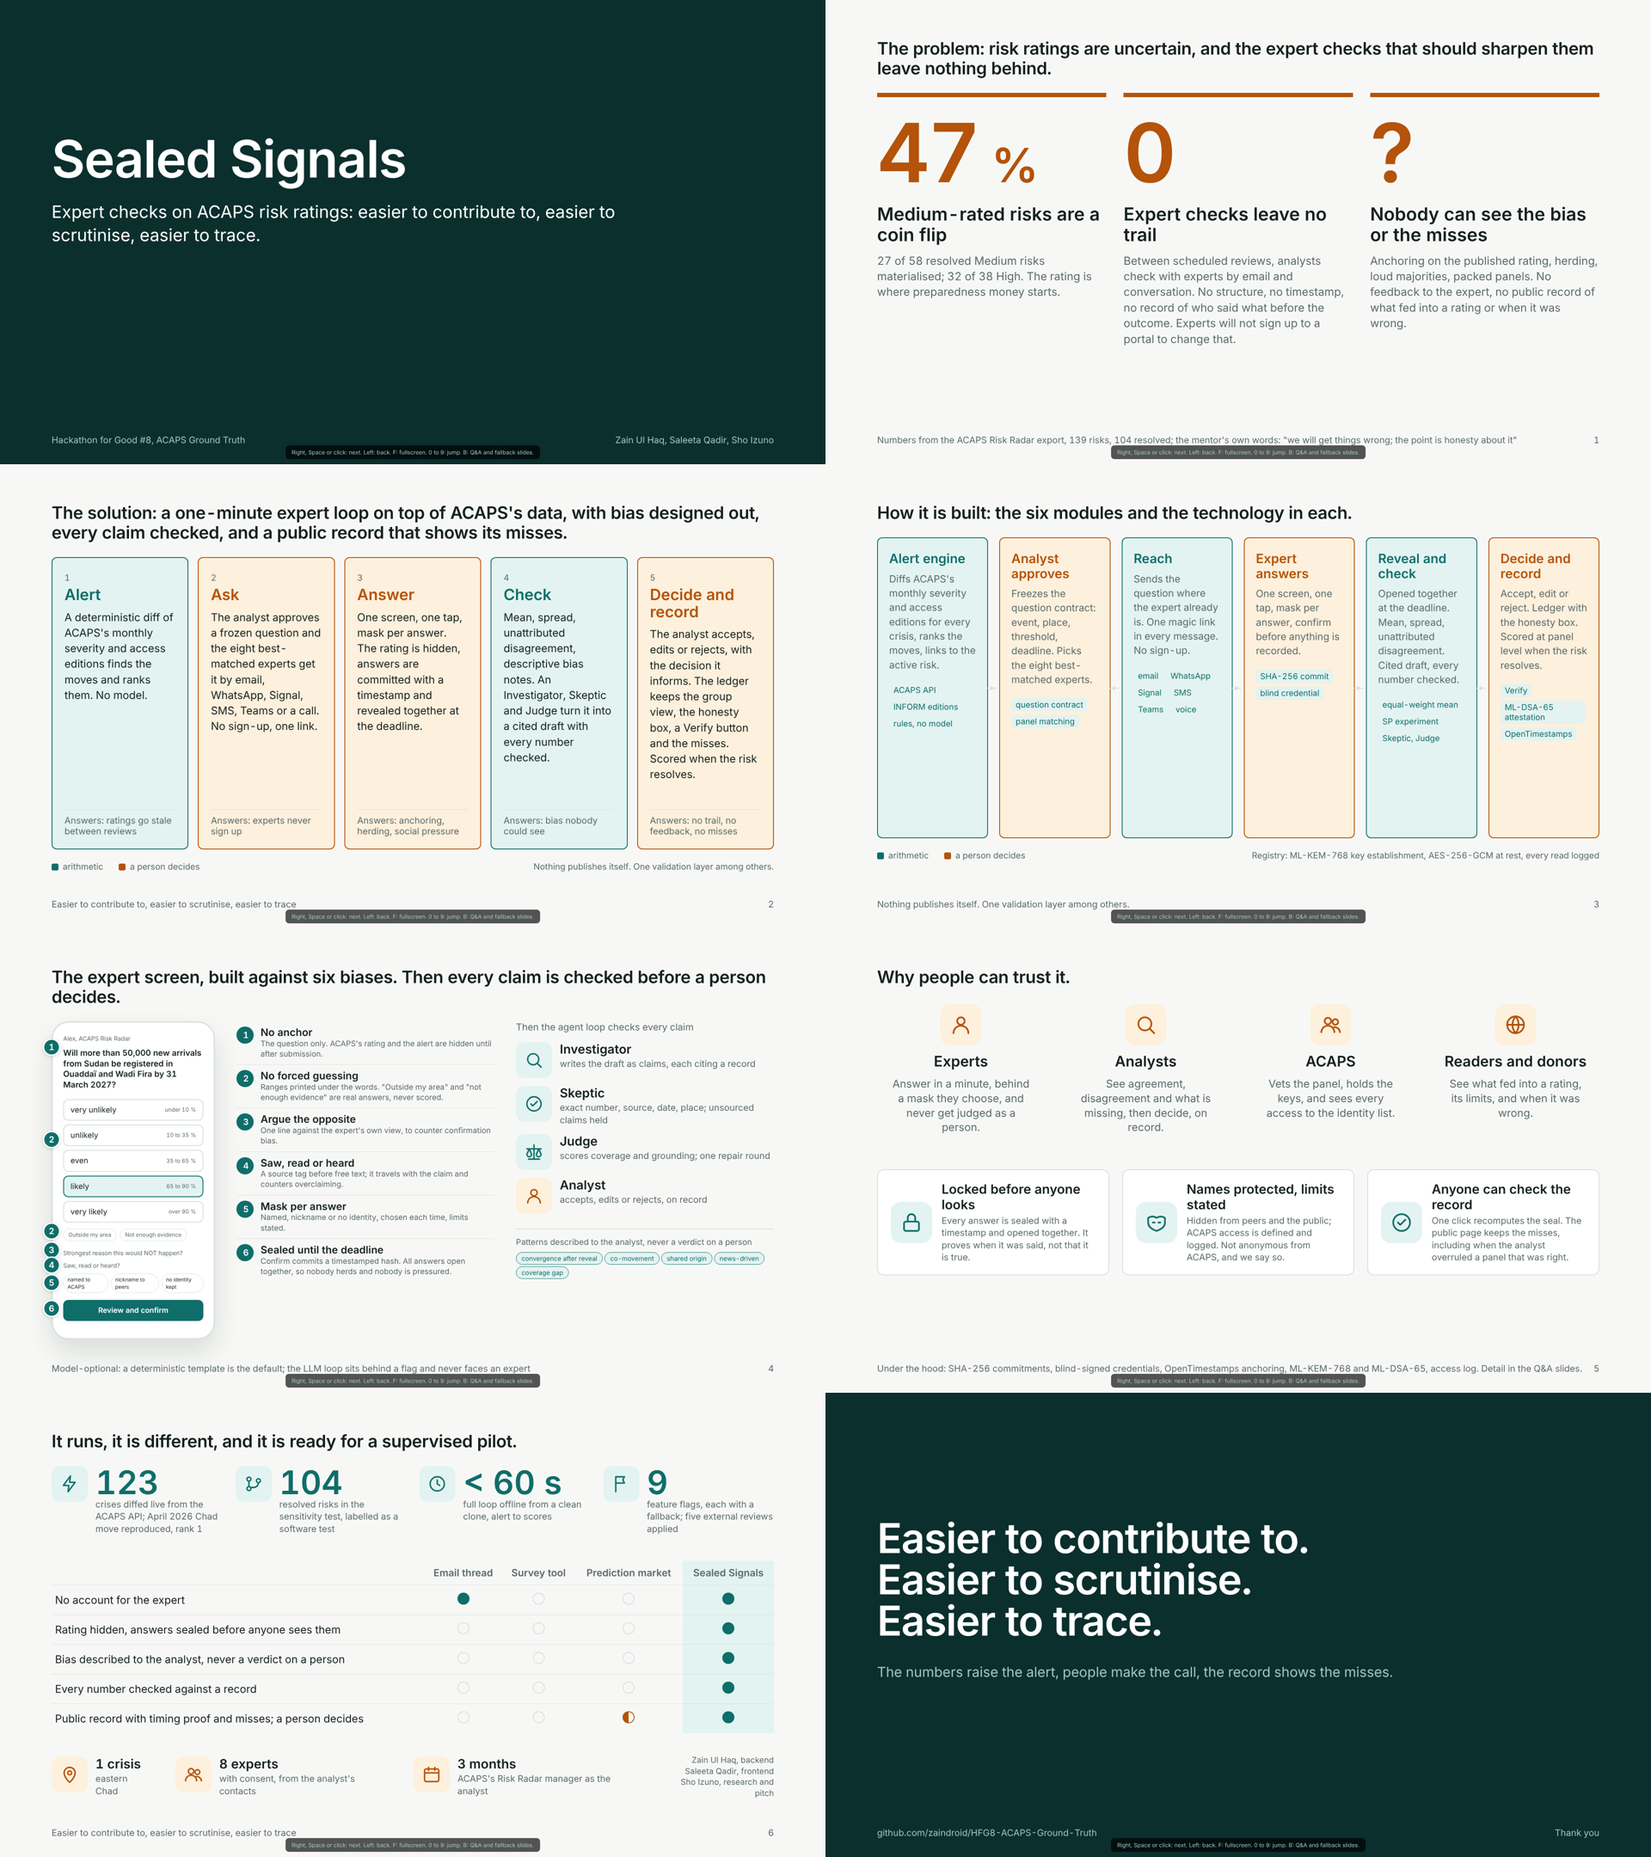
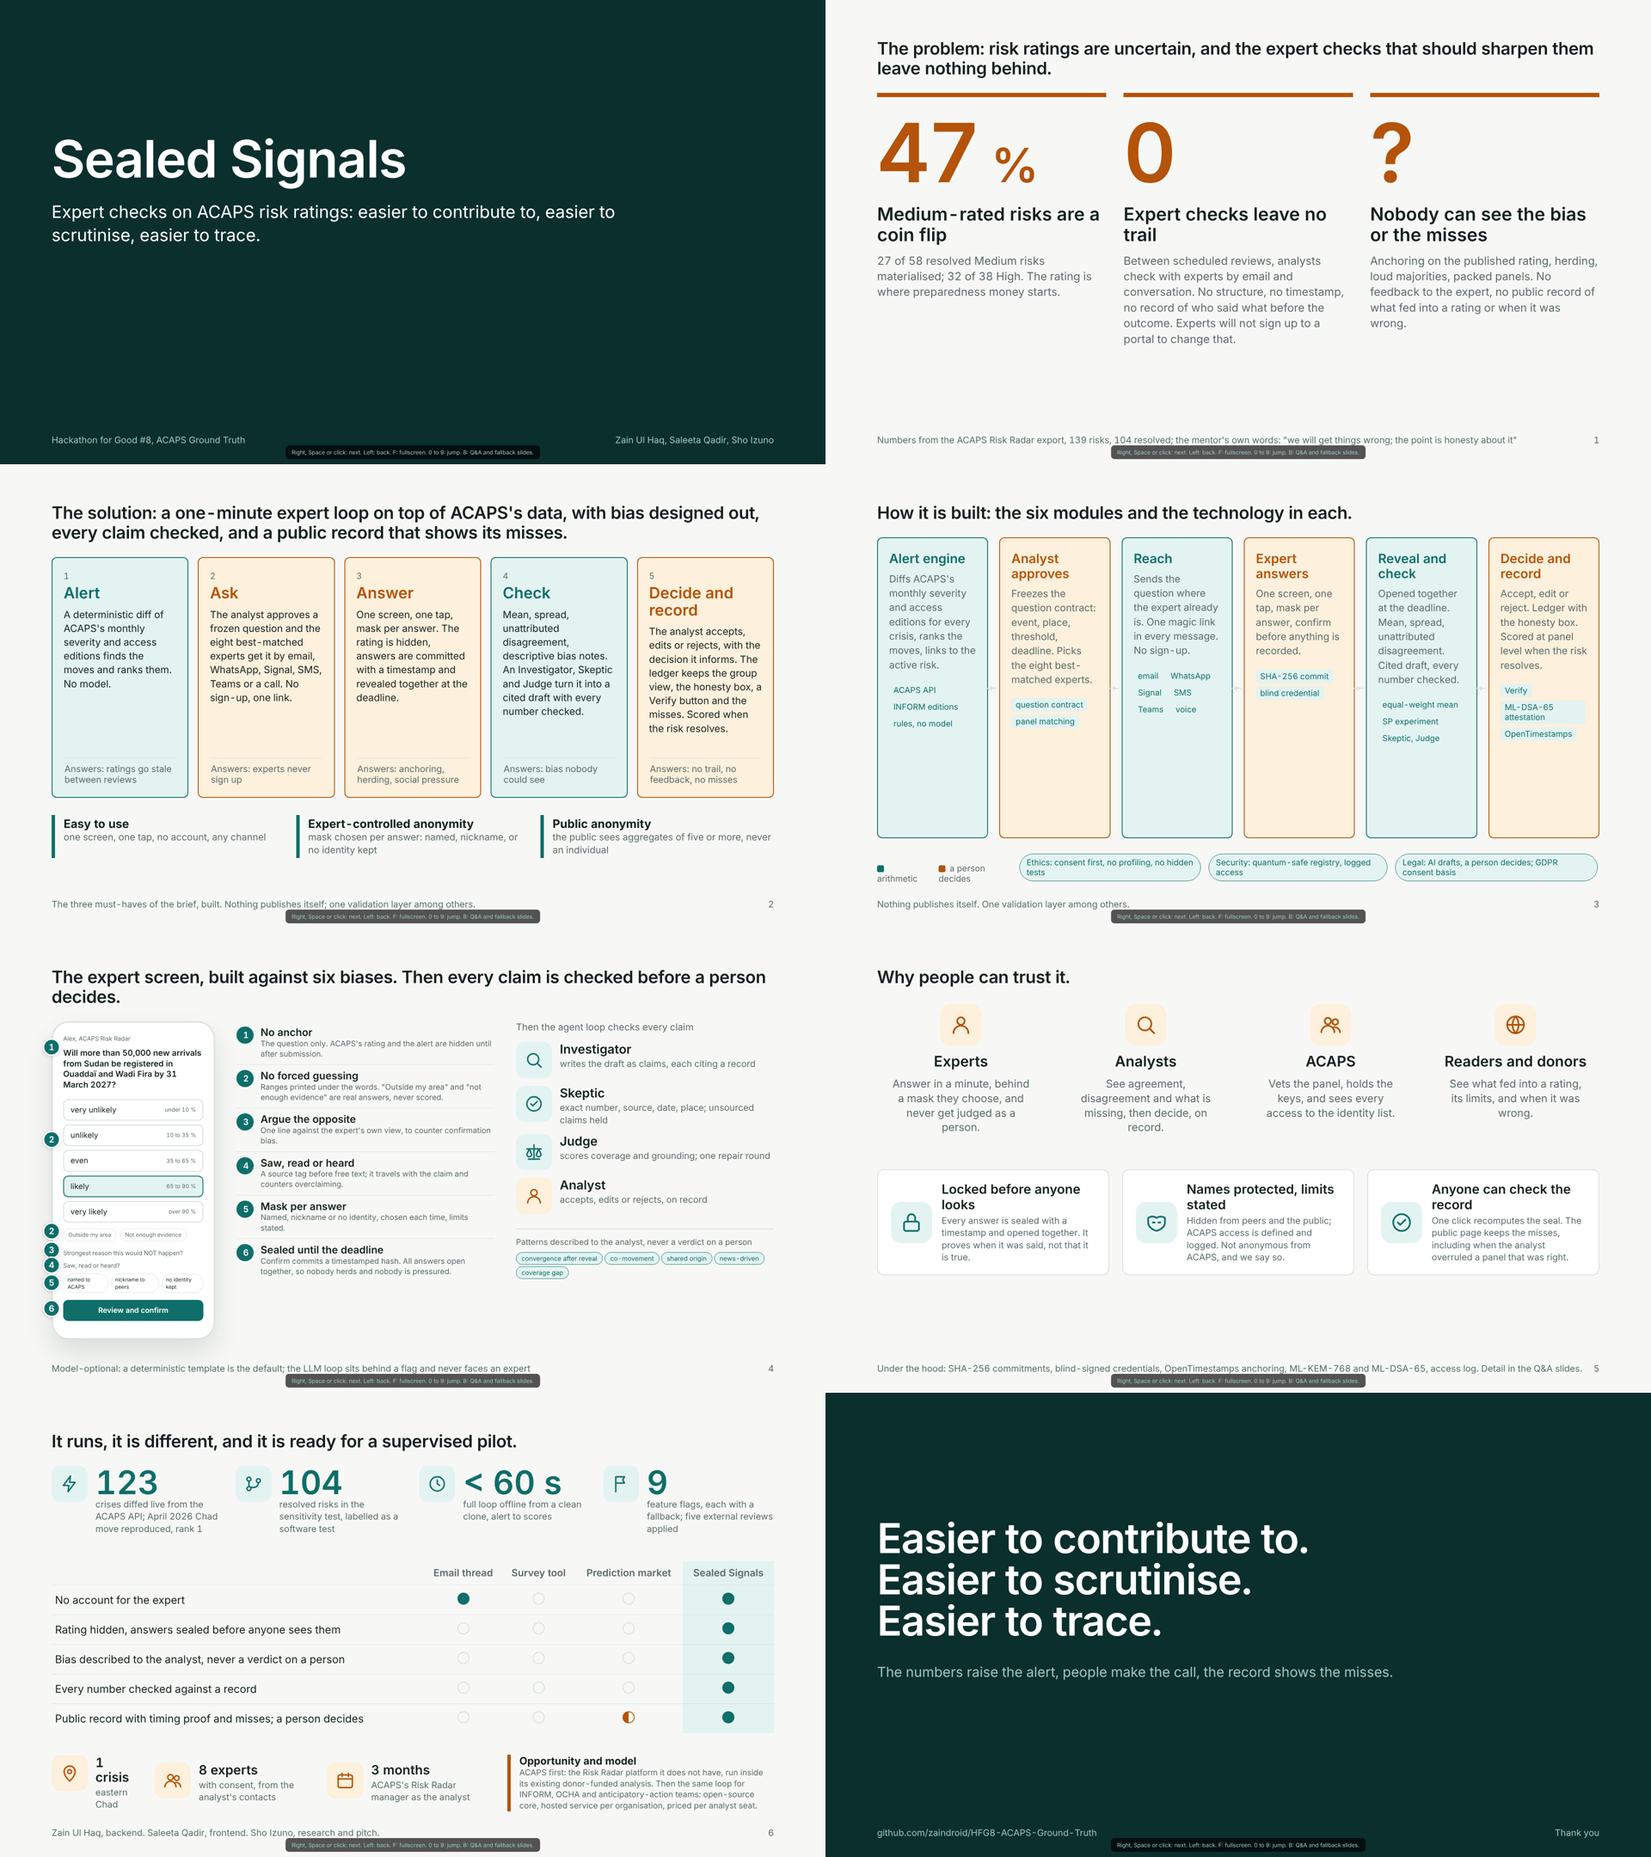
Deck v12: must-haves on slide 2, technology badges on slide 3, opportunity and model on slide 6; judging checklist with timing and Q&A; master prompt 0c and 9a

diff --git a/pitch/sealed-signals-slides.html b/pitch/sealed-signals-slides.html
@@ -105,13 +105,13 @@ h1{font-size:120px;font-weight:600;line-height:1;letter-spacing:-2px}
 .prob h3{font-size:42px;font-weight:600;margin:24px 0 18px;line-height:1.15}
 .prob p{font-size:26px;color:var(--muted);line-height:1.4}
 .sol{display:grid;grid-template-columns:repeat(5,1fr);gap:22px;margin-top:20px}
-.sol > div{border-radius:12px;padding:34px 28px;min-height:680px;position:relative;border:2px solid var(--line);background:#fff}
+.sol > div{border-radius:12px;padding:30px 26px;min-height:560px;position:relative;border:2px solid var(--line);background:#fff}
 .sol > div.t{background:var(--teal-soft);border-color:var(--teal)}
 .sol > div.a{background:var(--amber-soft);border-color:var(--amber)}
 .sol .k2{font-size:20px;color:var(--muted);margin-bottom:8px}
 .sol h3{font-size:36px;font-weight:600;line-height:1.1;margin-bottom:14px}
 .sol > div.t h3{color:var(--teal)}.sol > div.a h3{color:var(--amber)}
-.sol p{font-size:25px;line-height:1.45;color:var(--ink)}
+.sol p{font-size:23px;line-height:1.4;color:var(--ink)}
 .sol .fix{position:absolute;left:28px;right:28px;bottom:28px;font-size:21px;color:var(--muted);border-top:1.5px solid var(--line);padding-top:12px}
 
 .ico{width:64px;height:64px;border-radius:16px;background:var(--teal-soft);display:flex;align-items:center;justify-content:center;flex:none}
@@ -198,8 +198,12 @@ h1{font-size:120px;font-weight:600;line-height:1;letter-spacing:-2px}
   <div class="t" data-s="4"><div class="k2">4</div><h3>Check</h3><p>Mean, spread, unattributed disagreement, descriptive bias notes. An Investigator, Skeptic and Judge turn it into a cited draft with every number checked.</p><div class="fix">Answers: bias nobody could see</div></div>
   <div class="a" data-s="5"><div class="k2">5</div><h3>Decide and record</h3><p>The analyst accepts, edits or rejects, with the decision it informs. The ledger keeps the group view, the honesty box, a Verify button and the misses. Scored when the risk resolves.</p><div class="fix">Answers: no trail, no feedback, no misses</div></div>
  </div>
- <div class="legend" data-s="5"><span class="lt">arithmetic</span><span class="la">a person decides</span><span style="margin-left:auto">Nothing publishes itself. One validation layer among others.</span></div>
- <div class="foot"><span>Easier to contribute to, easier to scrutinise, easier to trace</span><span>2</span></div>
+ <div style="display:grid;grid-template-columns:repeat(3,1fr);gap:26px;margin-top:40px" data-s="5">
+  <div style="border-left:8px solid var(--teal);padding:4px 0 4px 20px"><b style="font-size:27px">Easy to use</b><p class="sub" style="font-size:22px">one screen, one tap, no account, any channel</p></div>
+  <div style="border-left:8px solid var(--teal);padding:4px 0 4px 20px"><b style="font-size:27px">Expert-controlled anonymity</b><p class="sub" style="font-size:22px">mask chosen per answer: named, nickname, or no identity kept</p></div>
+  <div style="border-left:8px solid var(--teal);padding:4px 0 4px 20px"><b style="font-size:27px">Public anonymity</b><p class="sub" style="font-size:22px">the public sees aggregates of five or more, never an individual</p></div>
+ </div>
+ <div class="foot"><span>The three must-haves of the brief, built. Nothing publishes itself; one validation layer among others.</span><span>2</span></div>
 </section>
 <section class="slide" id="s3">
  <div class="line" data-s="0">How it is built: the six modules and the technology in each.</div>
@@ -211,7 +215,14 @@ h1{font-size:120px;font-weight:600;line-height:1;letter-spacing:-2px}
   <div class="node t" data-s="5"><h3>Reveal and check</h3><p>Opened together at the deadline. Mean, spread, unattributed disagreement. Cited draft, every number checked.</p><span class="tech">equal-weight mean</span> <span class="tech">SP experiment</span> <span class="tech">Skeptic, Judge</span><i class="arrow"></i></div>
   <div class="node a" data-s="6"><h3>Decide and record</h3><p>Accept, edit or reject. Ledger with the honesty box. Scored at panel level when the risk resolves.</p><span class="tech">Verify</span> <span class="tech">ML-DSA-65 attestation</span> <span class="tech">OpenTimestamps</span></div>
  </div>
- <div class="legend" data-s="6"><span class="lt">arithmetic</span><span class="la">a person decides</span><span style="margin-left:auto">Registry: ML-KEM-768 key establishment, AES-256-GCM at rest, every read logged</span></div>
+ <div style="display:flex;gap:20px;margin-top:30px;align-items:center" data-s="6">
+  <span class="legend"><span class="lt">arithmetic</span><span class="la">a person decides</span></span>
+  <span style="margin-left:auto;display:flex;gap:14px">
+   <span class="chip t" style="font-size:19px;padding:8px 16px">Ethics: consent first, no profiling, no hidden tests</span>
+   <span class="chip t" style="font-size:19px;padding:8px 16px">Security: quantum-safe registry, logged access</span>
+   <span class="chip t" style="font-size:19px;padding:8px 16px">Legal: AI drafts, a person decides; GDPR consent basis</span>
+  </span>
+ </div>
  <div class="foot"><span>Nothing publishes itself. One validation layer among others.</span><span>3</span></div>
 </section>
 <section class="slide" id="s4">
@@ -299,9 +310,9 @@ h1{font-size:120px;font-weight:600;line-height:1;letter-spacing:-2px}
   <div class="it"><div class="ico a"><svg viewBox="0 0 24 24"><path d="M12 22s7-6 7-12a7 7 0 0 0-14 0c0 6 7 12 7 12z"/><circle cx="12" cy="10" r="2.5"/></svg></div><div><h4>1 crisis</h4><p>eastern Chad</p></div></div>
   <div class="it"><div class="ico a"><svg viewBox="0 0 24 24"><circle cx="9" cy="8" r="3.5"/><path d="M2 20a7 7 0 0 1 14 0"/><circle cx="17" cy="9" r="3"/><path d="M15.5 14.5A6 6 0 0 1 22 20"/></svg></div><div><h4>8 experts</h4><p>with consent, from the analyst's contacts</p></div></div>
   <div class="it"><div class="ico a"><svg viewBox="0 0 24 24"><rect x="3" y="5" width="18" height="16" rx="2"/><path d="M3 10h18M8 3v4M16 3v4"/></svg></div><div><h4>3 months</h4><p>ACAPS's Risk Radar manager as the analyst</p></div></div>
-  <div class="sub" style="font-size:19px;margin-left:auto;text-align:right">Zain Ul Haq, backend<br>Saleeta Qadir, frontend<br>Sho Izuno, research and pitch</div>
+  <div style="margin-left:auto;max-width:620px;border-left:8px solid var(--amber);padding-left:20px"><b style="font-size:24px">Opportunity and model</b><p class="sub" style="font-size:19px;line-height:1.35">ACAPS first: the Risk Radar platform it does not have, run inside its existing donor-funded analysis. Then the same loop for INFORM, OCHA and anticipatory-action teams: open-source core, hosted service per organisation, priced per analyst seat.</p></div>
  </div>
- <div class="foot"><span>Easier to contribute to, easier to scrutinise, easier to trace</span><span>6</span></div>
+ <div class="foot"><span>Zain Ul Haq, backend. Saleeta Qadir, frontend. Sho Izuno, research and pitch.</span><span>6</span></div>
 </section>
 <section class="slide dark" id="s7">
  <div style="margin-top:200px"><h1 data-s="0" style="font-size:96px">Easier to contribute to.<br>Easier to scrutinise.<br>Easier to trace.</h1><p class="sub" data-s="1" style="font-size:32px;margin-top:50px">The numbers raise the alert, people make the call, the record shows the misses.</p></div>

diff --git a/docs/sealed-signals/judging-checklist.md b/docs/sealed-signals/judging-checklist.md
@@ -1,0 +1,43 @@
+# Judging checklist (from the jury sheet handed out Saturday evening)
+
+Round 1 Sunday 13:00 to 14:10: 3-minute pitch + 2-minute Q&A per team. Jury scores 1 to 10 per criterion.
+Total = A×4 + B×2 + C×1.5 + D×1.5 + E×0.5 + F×0.5, max 100. Two finalists by 14:30.
+Challenge check on the sheet: "the brief's must-haves are easy to use, expert-controlled anonymity and public anonymity.
+Weigh them under A and B."
+
+| Criterion | Weight | What the jury asks | Where we show it, and the sentence to say |
+| --- | --- | --- | --- |
+| A Concept | 40 % | Is the concept a real solution for the challenge, and more than just an idea? | Slides 1 and 2. Say: "47 % of Medium risks materialise; the expert checks between reviews leave no trail; we give those checks a trail." Then the three must-haves on slide 2, by name, in the jury's words: easy to use, expert-controlled anonymity, public anonymity. |
+| B Prototype | 20 % | Did the team build a prototype, and does it work? | The live demo, inside the three minutes, from the product: alert approved, pulse sent, jury answers on the card, reveal, draft, accept, ledger, Verify. Say "this is running on the live ACAPS API with an offline cache" and show the must-haves working: the card (easy), the mask picker (expert-controlled), the ledger with no individual (public). |
+| C Technology feasibility | 15 % | Future-proof technology, including ethics, security and the legal side of AI | Slide 3 badges: consent first, no profiling, no hidden tests; quantum-safe registry with logged access; AI drafts and a person decides, GDPR consent basis. In Q&A: model-optional, deterministic template default; human oversight of every output, which is what the EU AI Act asks of high-risk decision support. |
+| D Product potential | 15 % | How innovative and clear is the product, and its opportunity? | Slide 6 comparison (email thread, survey tool, prediction market) and the opportunity box: the Risk Radar platform ACAPS does not have; the same loop for INFORM, OCHA, anticipatory-action teams. |
+| E Business feasibility | 5 % | How feasible and clear is the financial and business model? | Slide 6 box: run inside ACAPS's donor-funded analysis first; open-source core, hosted service per organisation, priced per analyst seat. One sentence, no more. |
+| F Wow factor | 5 % | Quality of the pitch and ability to sell the idea | The jury becomes the panel. The reveal of their own answers is the moment. End on the spine line. |
+
+## Must-haves, said in the jury's words
+
+- Easy to use: one screen, one tap, no account, any channel. Show the card.
+- Expert-controlled anonymity: the mask is chosen per answer (named, nickname, no identity kept). Show the picker.
+- Public anonymity: the public ledger shows aggregates of five or more and never an individual. Show the ledger.
+In Q&A, if asked whether answers are anonymous from ACAPS: "pseudonymised to ACAPS, with every access logged; anonymous
+to peers and the public. We say exactly that in the product."
+
+## Timing (3:00)
+
+0:00 slide 1, the problem (20 s) · 0:20 slide 2, the solution and the must-haves (25 s) · 0:45 live demo from the
+product (75 s): approve the April alert, send the pulse, jury scans and answers, reveal, draft with Skeptic marks,
+accept, ledger, Verify · 2:00 slide 3, how it is built, with the ethics, security and legal badges (20 s) · 2:20 slide 4,
+the card against six biases and the agent loop (20 s) · 2:40 slide 5, why people can trust it (10 s) · 2:50 slide 6,
+it runs, it is different, the opportunity and model (10 s) · close on the spine line.
+If the demo fails: fallback slides B (reveal view, draft and ledger), same beats.
+
+## Q&A, two minutes: the eight likely questions and the answers
+
+1. Is it anonymous? Pseudonymised to ACAPS with logged access; anonymous to peers and the public; the expert chooses per answer.
+2. Why would an expert answer? No sign-up, one tap, in their own channel; they get the outcome report; they are never ranked.
+3. What if the panel is packed or biased? Committee vetting, affiliation cap, coverage-gap note; patterns described, nothing automatic.
+4. Does the AI decide anything? No. It drafts with citations; a checker rejects unsupported numbers; the analyst decides and the decision is on record.
+5. Is this a blockchain? No. A timestamped commitment and an independent timestamp; we say what each proves.
+6. Where does the alert come from? A deterministic diff of ACAPS's own monthly editions; April 2026 Chad reproduced live.
+7. What is real and what is synthetic? Live ACAPS API with cache; synthetic experts, labelled; the sensitivity test is a software test.
+8. Business model? Inside ACAPS's funded analysis first; then a hosted service per organisation, open-source core.

diff --git a/docs/sealed-signals/MASTER_PROMPT.md b/docs/sealed-signals/MASTER_PROMPT.md
@@ -181,6 +181,18 @@ Three design consequences, all already in v3.4: the question horizon is six mont
 horizon (Aisha, Pierre); alerts and pulses are filtered by the countries a person covers (Jose); every ledger entry
 lists what fed into it and what is not known (Emily).
 
+## 0c. The jury sheet (handed out Saturday evening; every lane reads this)
+
+Scores 1 to 10 per criterion; total = A Concept ×4 (40 %) + B Prototype ×2 (20 %) + C Technology feasibility ×1.5
+(future-proof, ethics, security, legal side of AI) + D Product potential ×1.5 + E Business feasibility ×0.5 + F Wow
+×0.5. The sheet's own challenge check: "the brief's must-haves are easy to use, expert-controlled anonymity and public
+anonymity; weigh them under A and B." Consequences: the live demo is inside the three minutes (B is 20 % and asks "does
+it work"); the three must-haves are named in the jury's words on slide 2 and shown working in the demo (card, mask
+picker, ledger); ethics, security and legal are labelled on slide 3; slide 6 carries one sentence of business model.
+Full mapping and the Q&A answers: docs/sealed-signals/judging-checklist.md. Lane B: the mask picker and the ledger's
+"never an individual" line must be visible without explanation. Lane A: `make demo` must run the full loop live on
+stage in under 75 seconds including the jury's real answers.
+
 ## 1a. Who can learn what (replaces every "sealed" or "nothing leaves the device" claim)
 
 | Party | Before reveal | After reveal | Ever |
@@ -709,16 +721,13 @@ Professional, minimal, modern. The jury should think "this already exists in pro
 
 ## 9a. The three minutes (Lane C owns demo-script.md; deck in pitch/sealed-signals-slides.html; six slides, fixed)
 
-1 The problem: 47 % coin flip; expert checks leave no trail and experts will not sign up; nobody can see the bias or the
-misses (about 25 s). 2 The solution: Alert, Ask, Answer, Check, Decide and record, each with the problem it answers
-(30 s). 3 How it is built: six modules with the technology in each (25 s). 4 Bias designed out on the card, every claim
-checked by the agent loop, a person decides (35 s). 5 Why every stakeholder can trust it: the ledger with Verify and the
-miss on the page; experts, analysts, committee, readers; what we do not claim (35 s). 6 It runs, it is different, pilot
-and team (25 s). Close on the spine line. The live demo runs from the product, not a slide, when the presenter chooses
-(after 4 or after 6): the jury scans the QR on the desk's Reach page, answers on the card, and the reveal, draft,
-decision and ledger happen live. Q&A slides behind B: alerts page, reach page, full psychology layer, verification,
-proof numbers, comparison, pilot, personas and workflow mapping, cryptographic mechanisms, scoring and calibration,
-reveal view, draft and ledger, sensitivity test. Nothing is said on stage about a path that is off.
+0:00 slide 1, the problem (20 s) · 0:20 slide 2, the solution and the three must-haves in the jury's words (25 s) ·
+0:45 live demo from the product (75 s): approve the April alert, send the pulse, the jury scans and answers on the card,
+reveal, draft with Skeptic marks, accept with "what decision, for whom, by when", ledger, one click on Verify · 2:00
+slide 3, how it is built, ethics, security and legal badges (20 s) · 2:20 slide 4, the card against six biases and the
+agent loop (20 s) · 2:40 slide 5, why people can trust it (10 s) · 2:50 slide 6, it runs, it is different, opportunity
+and model (10 s) · close on the spine line. Fallback slides B if the demo fails. Q&A answers in judging-checklist.md.
+Nothing is said on stage about a path that is off.
 
 ## 10. Lanes
 
